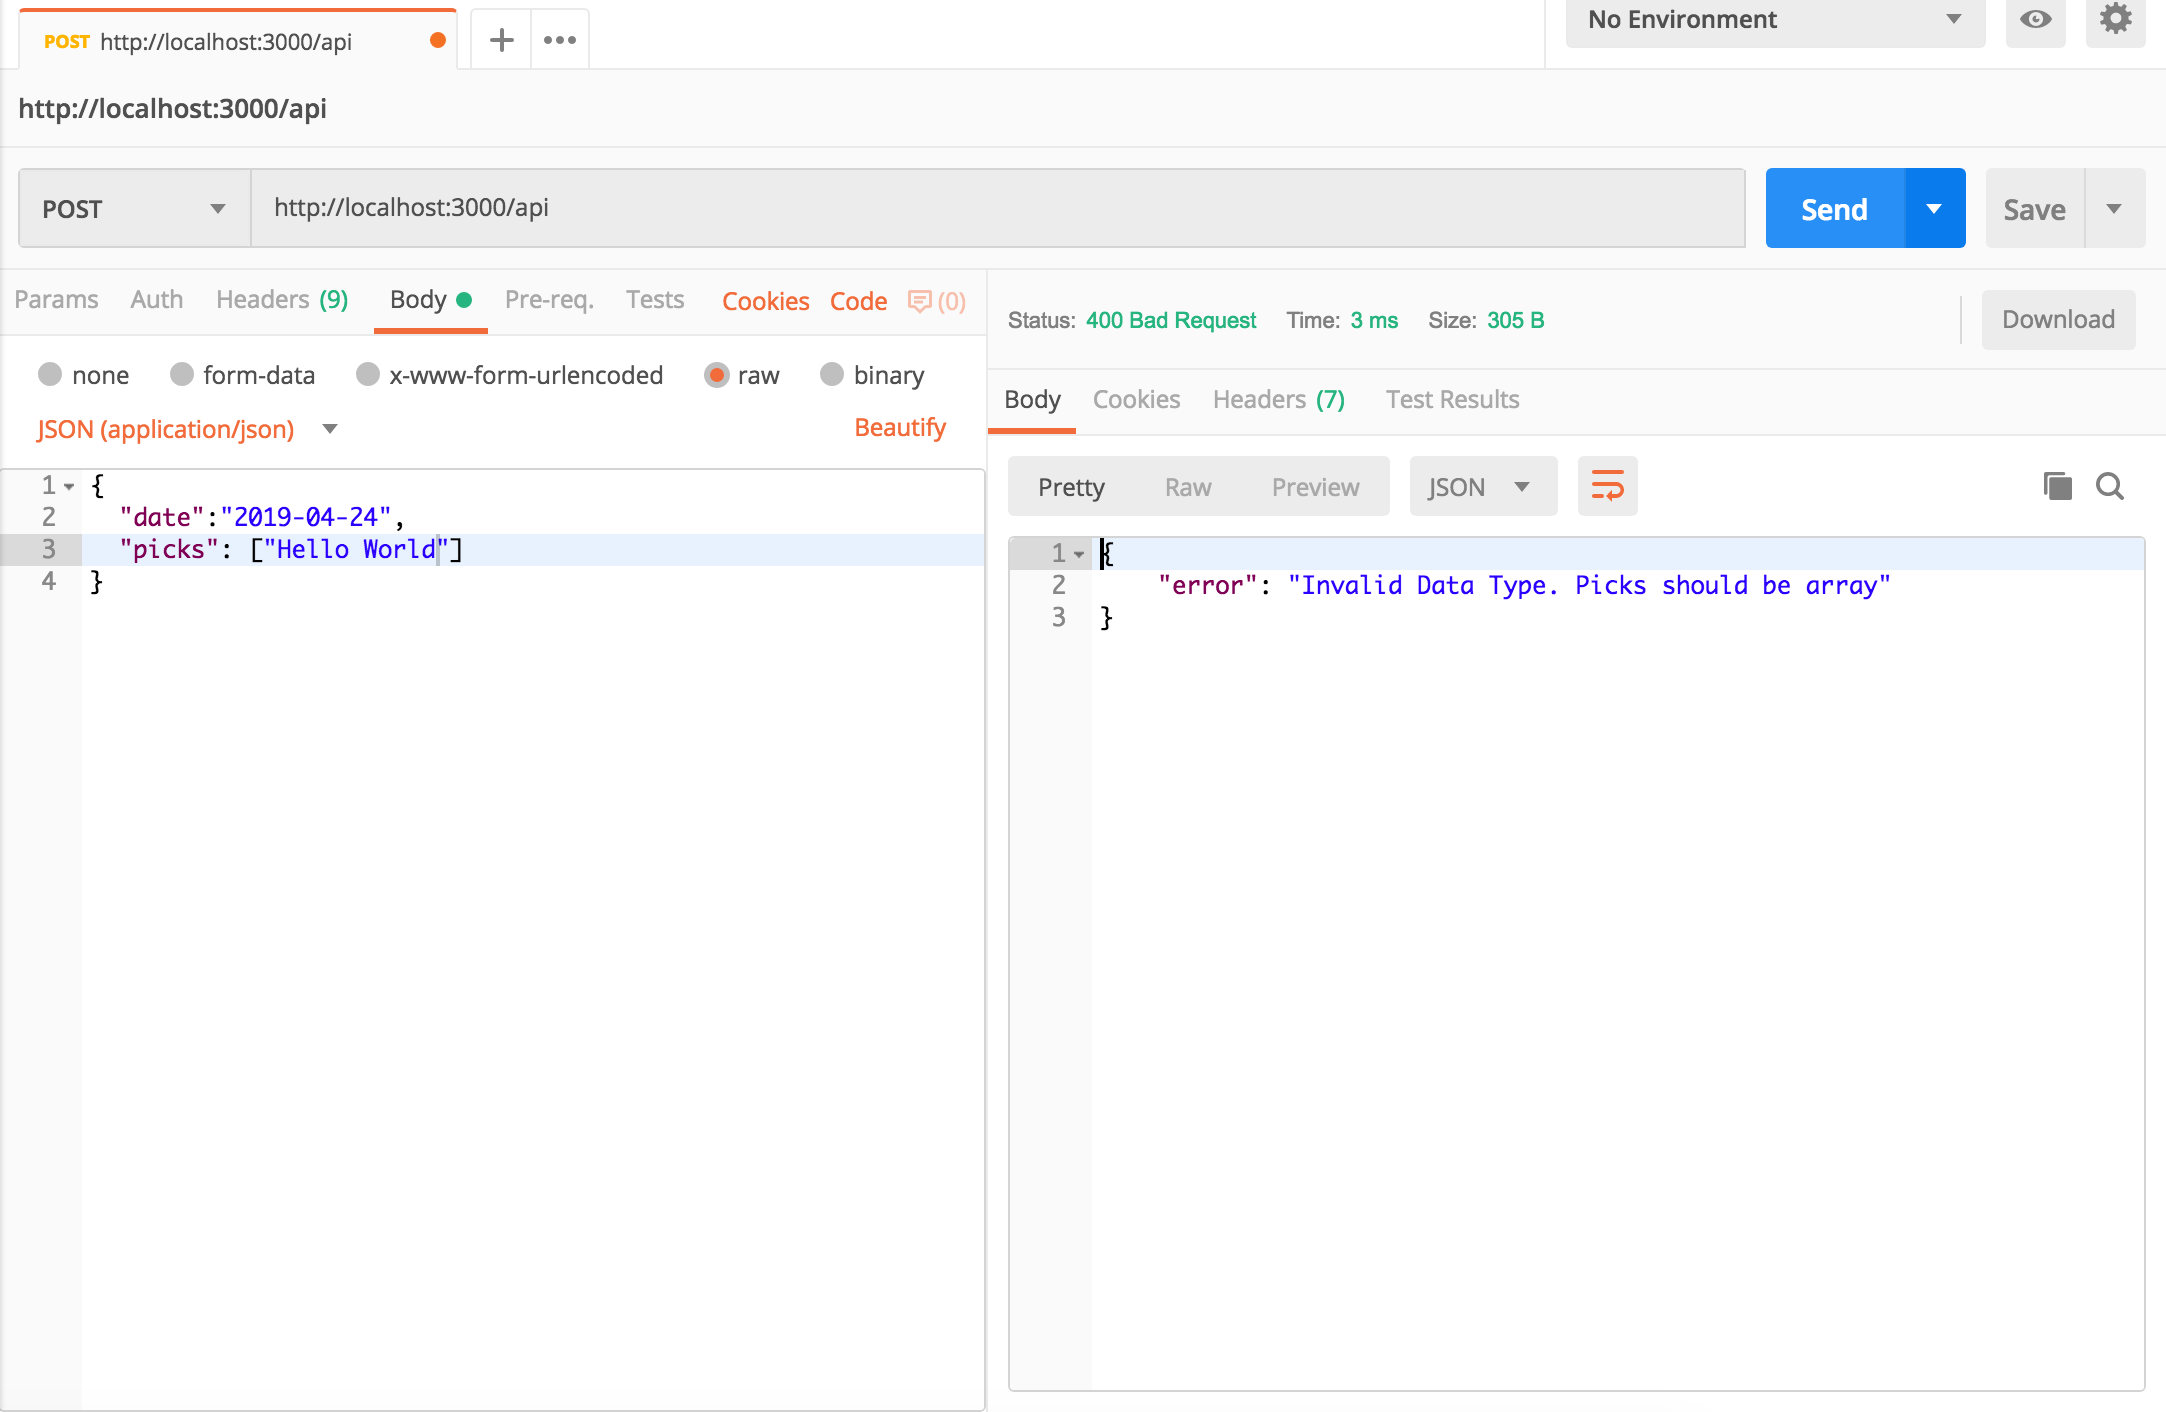
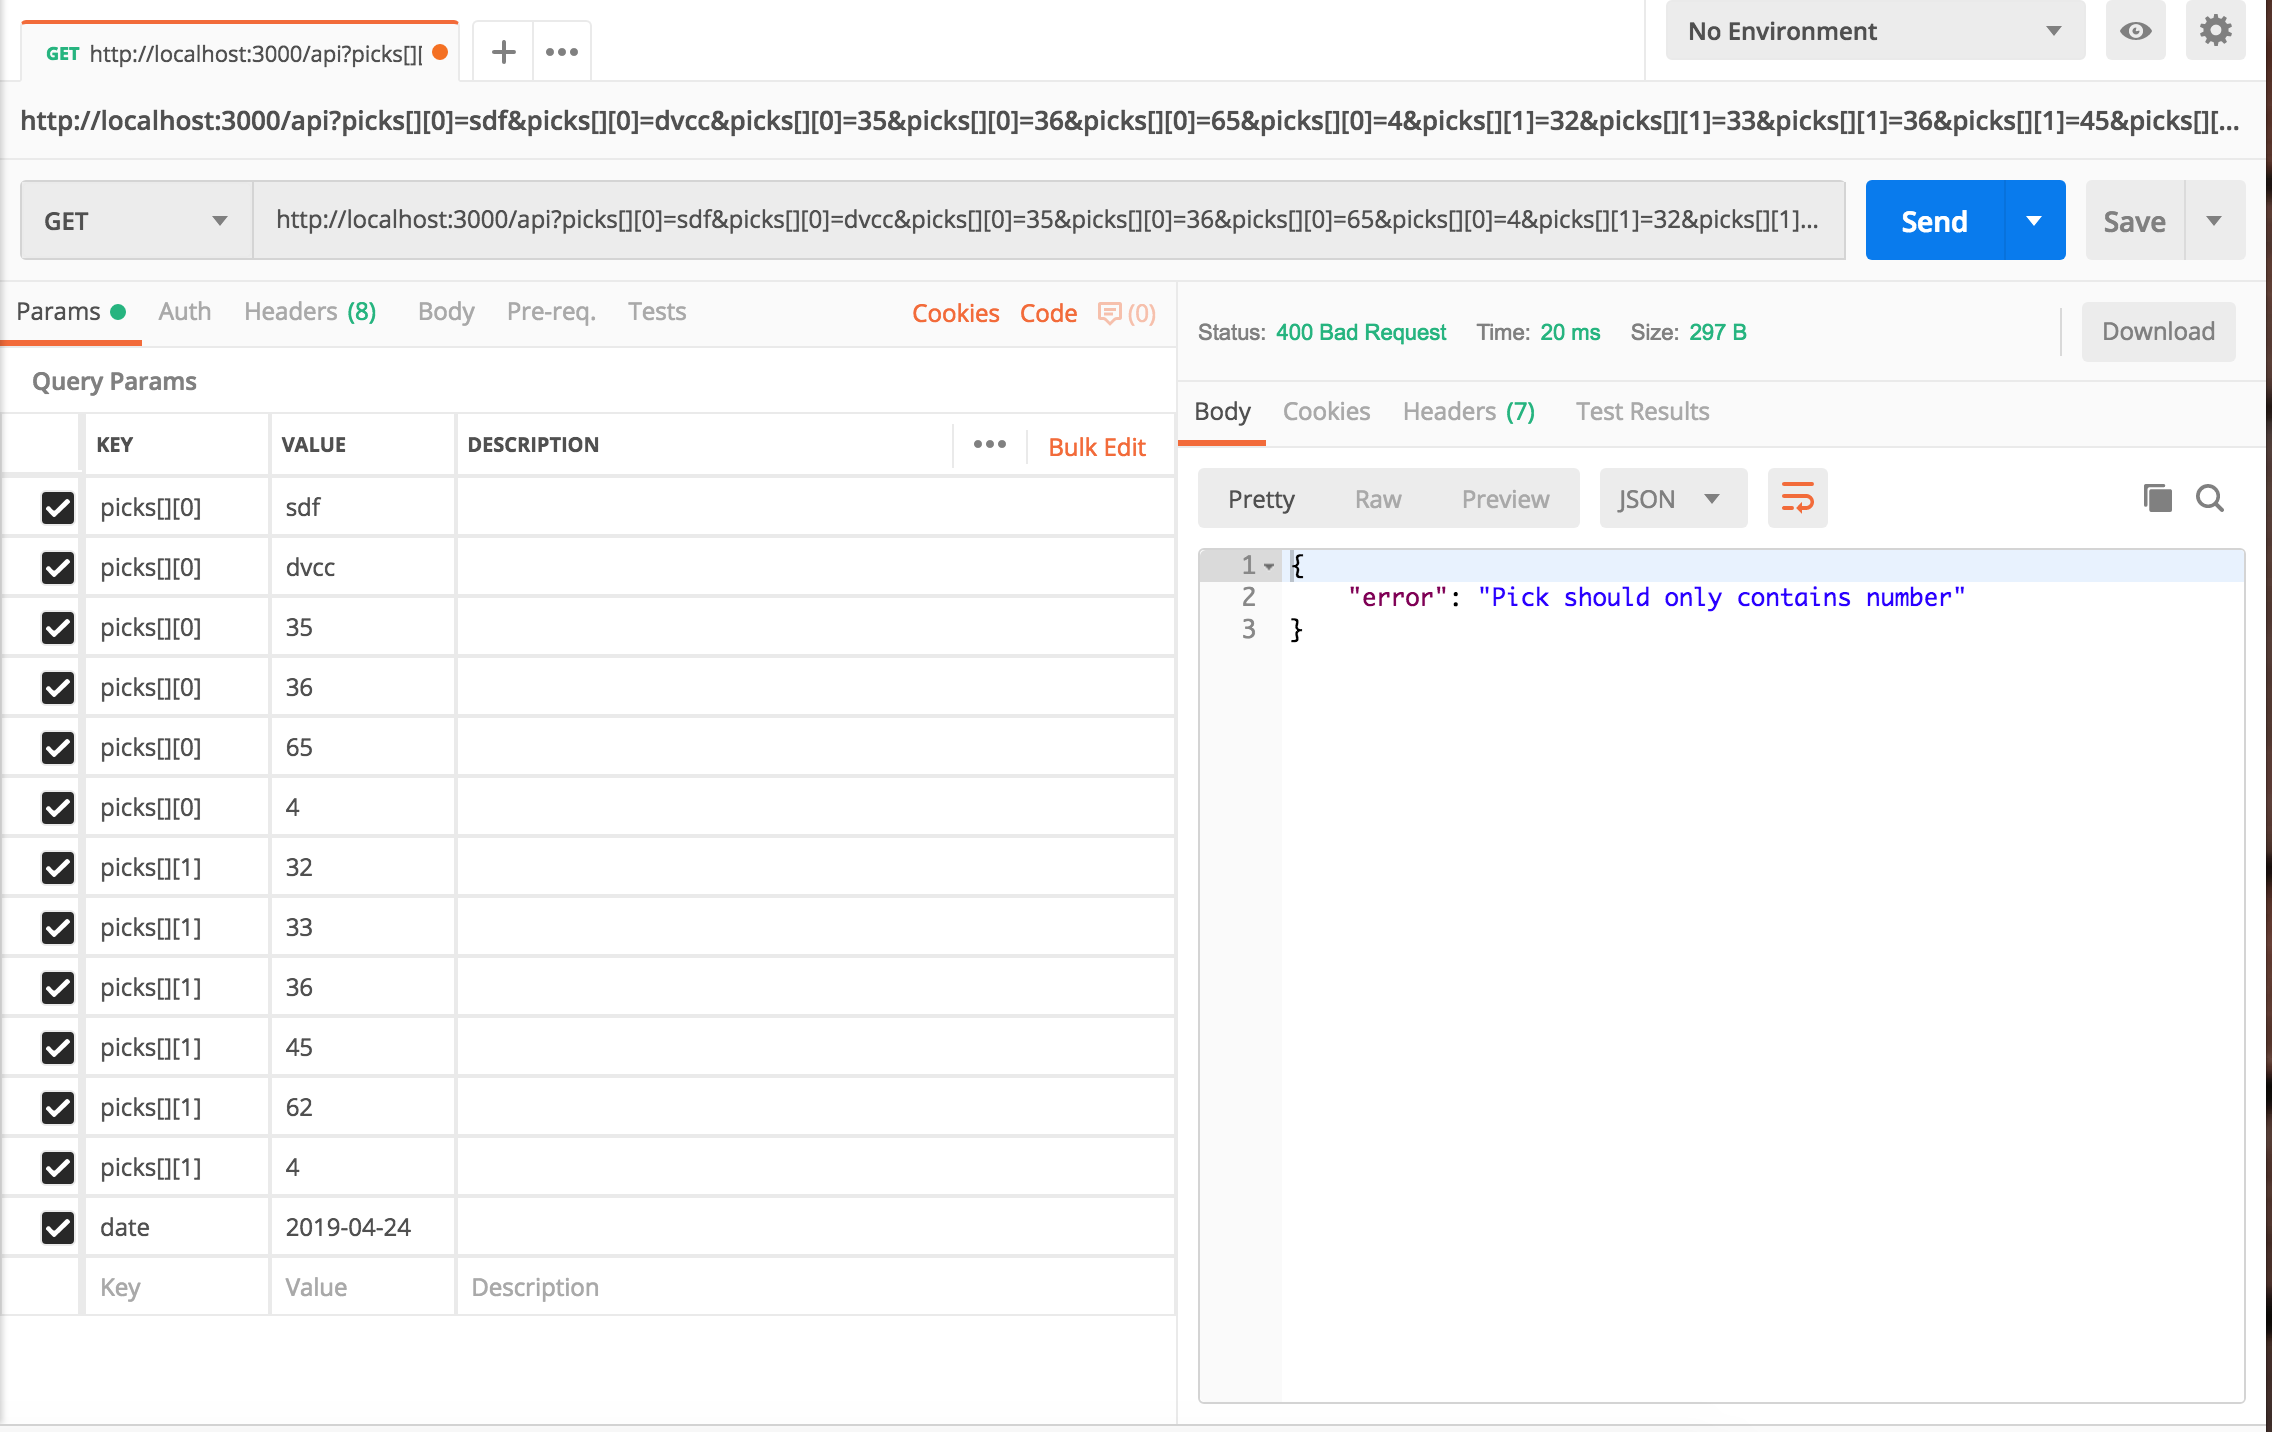
recofig to get for REST pattern

diff --git a/test/app/app.test.js b/test/app/app.test.js
@@ -17,13 +17,11 @@ test('Should Arrive Sample Page', (done) => {
 
 describe('Post Data To API route', () => {
   test('Should Return Error If Given Invalid Date On Ticket', done => {
-    request(app).post('/api')
-    .set('Content-Type', 'application/json')
-    .send({
+    request(app).get('/api')
+    .set('Content-Type', 'application/x-www-form-urlencoded')
+    .query({
       'date': '2011-15-123',
-      'picks' : [
-        [1, 2, 3, 4, 5, 6]
-      ]
+      'picks[][0]' : [1, 2, 3, 4, 5, 6]
     })
     .expect(400)
     .end((err, res) => {
@@ -34,31 +32,29 @@ describe('Post Data To API route', () => {
   })
 
   test('Should Return Object contains correct prize info when posting JSON', done => {
-    request(app).post('/api')
-    .set('Content-type', 'application/json')
-    .send({
+    request(app).get('/api')
+    .set('Content-Type', 'application/json')
+    .query({
       date: '2019-04-24',
-      picks: [
-        [6, 32, 35, 36, 65, 4]
-      ]
+      "picks[][0]": [6, 32, 35, 36, 65, 4]
     })
     .expect(200)
     .end((err, res) => {
       if (err) done(err)
+      console.log(res.body)
       expect(res.body.totalWinning).toEqual('Grand Prize + 0')
       done()
     })
   })
 
   test('Should Return object contains correct prize info when post from HTML form', done => {
-    request(app).post('/api')
+    request(app).get('/api')
     .set('Content-Type', 'application/x-www-form-urlencoded')
-    .send({
+    .query({
       date: '2019-04-24',
-      picks: [
-        [6, 32, 35, 36, 65, 4],
-        [8, 32, 35, 36, 65, 10]
-      ]
+      "picks[][0]":[6, 32, 35, 36, 65, 4],
+      "picks[][1]":[8, 32, 35, 36, 65, 10]
+
     })
     .expect(200)
     .end((err, res) => {

diff --git a/app/lib/tickethelper.js b/app/lib/tickethelper.js
@@ -97,7 +97,7 @@ const ticketHelper = {
     }
     const drawDate = ticket.date
     // verify if request draw date format correct
-    if (!moment(drawDate).isValid()) {
+    if (!drawDate || !moment(drawDate).isValid()) {
       verification.result = false
       verification.message = 'Invalid Date. Accepted Date format is YYYY-MM-DD'
       return verification
@@ -133,7 +133,7 @@ const ticketHelper = {
 
       picks[i].forEach((pick, j, arr) => {
         // verify if only number submited as pick info
-        if (typeof pick !== 'number' && typeof Number(pick) !== 'number') {
+        if (typeof pick !== 'number' && Number.isNaN(Number(pick))) {
           verification.result = false
           verification.message = "Pick should only contains number"
           return 

diff --git a/app/app.js b/app/app.js
@@ -1,6 +1,5 @@
 const express = require('express')
 const routes = require('./routes')
-const bodyParser = require('body-parser')
 const cors = require('cors')
 
 // Create Express App
@@ -8,11 +7,6 @@ const app = express()
 
 // allow cors
 app.use(cors())
-
-// Config Body Parser
-app.use(bodyParser.urlencoded({ extended: true }))
-app.use(bodyParser.json())
-
 
 // sample page for visualization
 app.get('/sample', (req, res) => {

diff --git a/app/routes/index.js b/app/routes/index.js
@@ -8,8 +8,9 @@ const router = express.Router()
 // Routes
 router.get('/', root)
 
-router.post('/api', (req, res) => {
-  const ticket = req.body
+router.get('/api', (req, res) => {
+  console.log(req.query)
+  const ticket = req.query
   const drawDate = ticket.date
   
   // verify that ticket submit is correct with format and does not missing any information

diff --git a/app/public/sample.html b/app/public/sample.html
@@ -51,7 +51,7 @@
 
   <script type="text/javascript">
     $('#send').click(function(){
-      $.post('http://localhost:3000/api', {
+      $.get('http://localhost:3000/api', {
         date: '2019-04-24',
         picks: [
           [06, 32, 35, 36, 65, 04],

diff --git a/README.md b/README.md
@@ -3,15 +3,14 @@ This is a back end API for checking US Powerball Ticket. This API will accept ti
 
 ## For Developer
  API endpoint
-  * Developer can send POST request to the below public endpoint to aquire data
+  * Developer can send GET request to the below public endpoint to aquire data
   ```
   localhost:3000/api
   ```
- POST data structure and sample
-  * Public API endpoint accept `application/x-www-form-urlencoded` and `application/json` format
-  * POST data should have a property of `date`, in the format of `YYYY-MM-DD` which indicates the draw date
-  * POST data should have a property of `picks`, which is an array of pick, each pick should be an array of 6 numbers (5 white balls and 6th is Powerball) following the Powerball number rules. (eg: You should not include number such as 101)
-  * Use the following POST data as reference
+ REQUEST data structure and sample
+  * GET data should have a query param of `date`, in the format of `YYYY-MM-DD` which indicates the draw date
+  * GET data should have a query param of `picks`, which is an array of pick, each pick should be an array of 6 numbers (5 white balls and 6th is Powerball) following the Powerball number rules. (eg: You should not include number such as 101)
+  * Use the following GET data as reference
   ```json
   {
     "date":"2019-04-24",
@@ -22,6 +21,69 @@ This is a back end API for checking US Powerball Ticket. This API will accept ti
     ]
   }
   ``` 
+### Sample Code
+  * Request Via jQuery
+  ```javascript
+  var settings = {
+    "async": true,
+    "crossDomain": true,
+    "url": "http://localhost:3000/api?date=2019-04-24&picks[][0]=6,32,35,36,65,4&picks[][1]=32,33,36,45,62,4",
+    "method": "GET",
+  }
+
+  $.ajax(settings).done(function (response) {
+    console.log(response);
+  });
+  ```
+
+  * Request Via Python
+  ```python
+  import requests
+  url = "http://localhost:3000/api"
+  querystring = {"date":"2019-04-24","picks[][0]":["6","32","35","36","65","4"],"picks[][1]":["32","33","36","45","62","4"]}
+  headers = {
+      'Content-Type': "application/x-www-form-urlencoded",
+      'Accept': "*/*",
+      'Cache-Control': "no-cache",
+      'Postman-Token': "80829e16-695a-4803-8f1c-549f658311d0,afe2b3b4-63a4-41f1-a5a4-16402b6ba4d9",
+      'Host': "localhost:3000",
+      'accept-encoding': "gzip, deflate",
+      'Connection': "keep-alive",
+      'cache-control': "no-cache"
+      }
+  response = requests.request("GET", url, headers=headers, params=querystring)
+
+  print(response.text))
+  ```
+
+  * Request Via Nodejs
+  ```javascript
+  var request = require("request");
+  var options = { method: 'GET',
+    url: 'http://localhost:3000/api',
+    qs: 
+    { date: '2019-04-24',
+      picks: [
+        [ '6', '32', '35', '36', '65', '4' ],
+        [ '32', '33', '36', '45', '62', '4' ]
+      ]
+    headers: 
+    { 'cache-control': 'no-cache',
+      Connection: 'keep-alive',
+      'accept-encoding': 'gzip, deflate',
+      Host: 'localhost:3000',
+      'Postman-Token': '80829e16-695a-4803-8f1c-549f658311d0,d0ad3f9f-3534-45de-8f8b-d158c3c01aa7',
+      'Cache-Control': 'no-cache',
+      Accept: '*/*',
+      'User-Agent': 'PostmanRuntime/7.11.0',
+      'Content-Type': 'application/x-www-form-urlencoded' } };
+
+  request(options, function (error, response, body) {
+    if (error) throw new Error(error);
+
+    console.log(body);
+  });
+  ```
  Expected Response from API
   * If valid ticket information is provided, server will respond with a JSON about whether each pick has won, the prize won per-pick, and the total of all prizes won on the ticket
   * Sample Success Response as follow:
@@ -61,7 +123,7 @@ This is a back end API for checking US Powerball Ticket. This API will accept ti
 * When requested date does not have a draw, server response with status 400 and message showing that the draw date indicated on ticket is incorrect
 ![](./doc/wrong_date.png)
 
-* A sample live preview has been provided. Please note that this sample UI is NOT dynamic and is NOT designed for real time use. POST data cannot be changed. This page is ONLY for demonstration purpose of how the backend API work
+* A sample live preview has been provided. Please note that this sample UI is NOT dynamic and is NOT designed for real time use. GET data cannot be changed. This page is ONLY for demonstration purpose of how the backend API work
 ![](./doc/sample.gif)
 
 ## Prerequiste
@@ -88,10 +150,10 @@ node index.js
 App listening on port 3000
 ```
 
-To check out sample HTML demo, visit `localhost:3000/sample`. Note that sample page is NOT for production use. POST data cannot be changed. This is only for demo purpose
+To check out sample HTML demo, visit `localhost:3000/sample`. Note that sample page is NOT for production use. GET data cannot be changed. This is only for demo purpose
 
 
-To use this API, send POST request with the data format mention above to:
+To use this API, send GET request with the data format mention above to:
 ```
 localhost:3000/api
 ```
